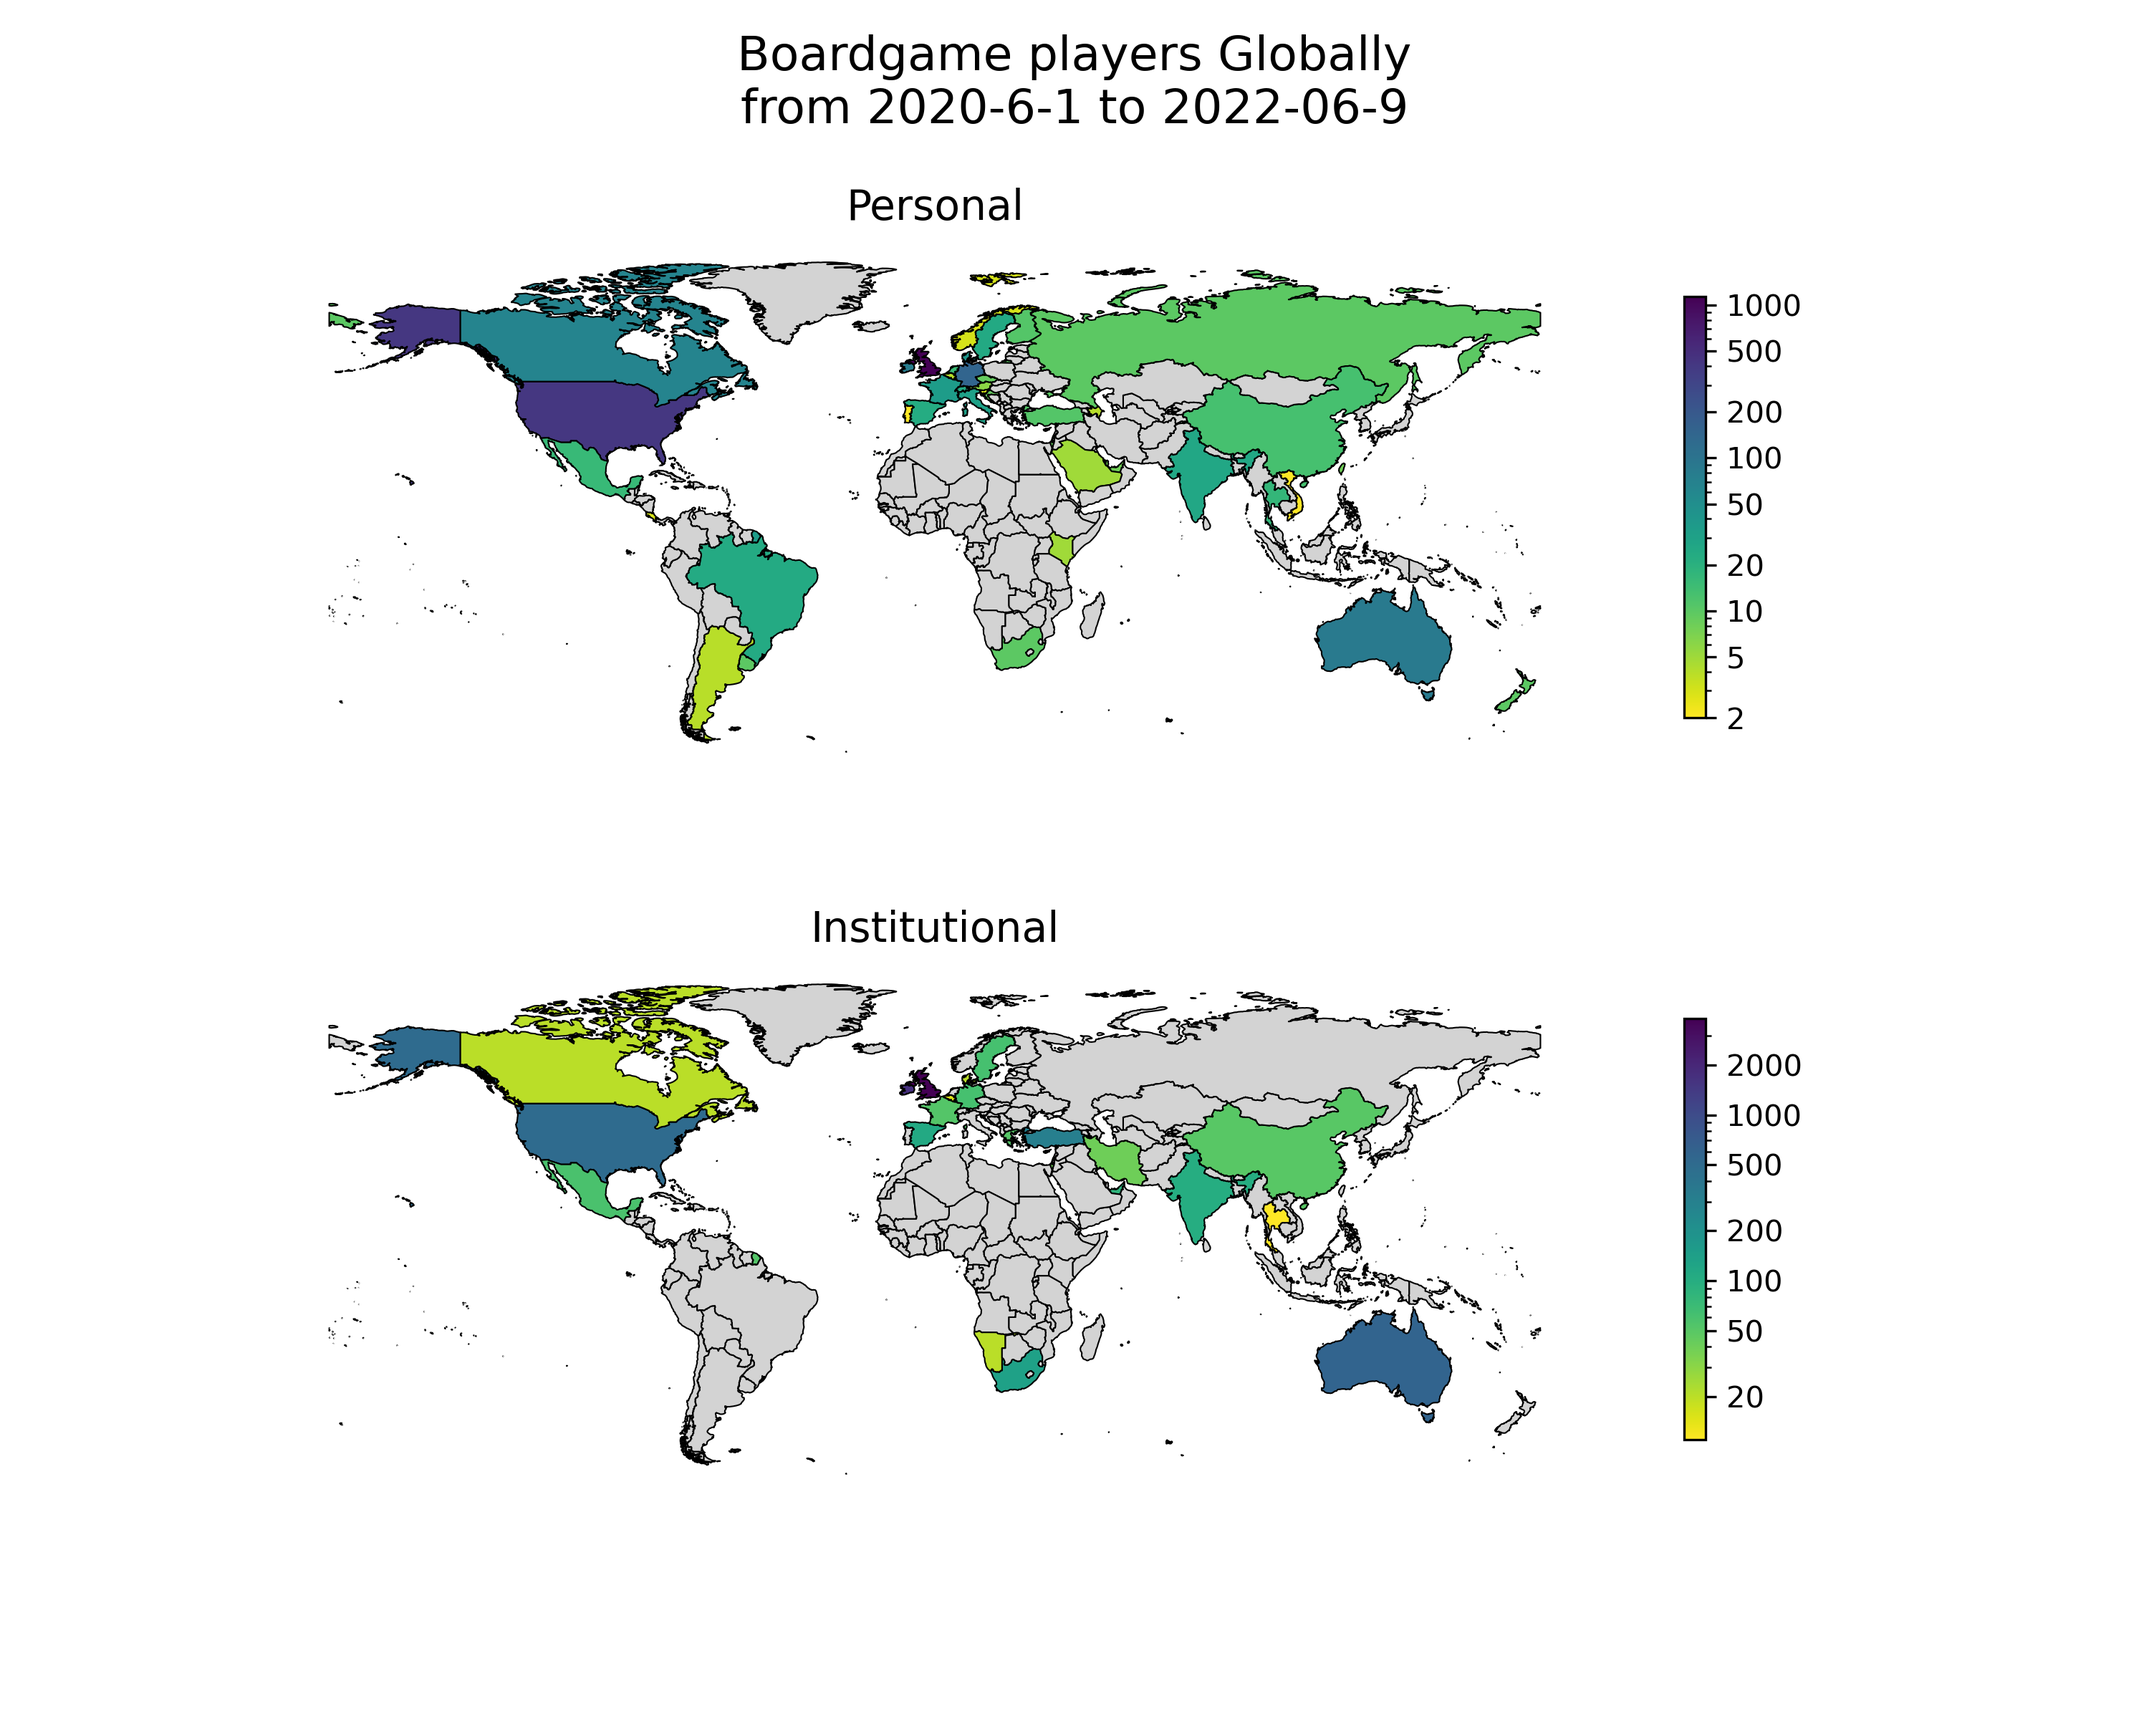
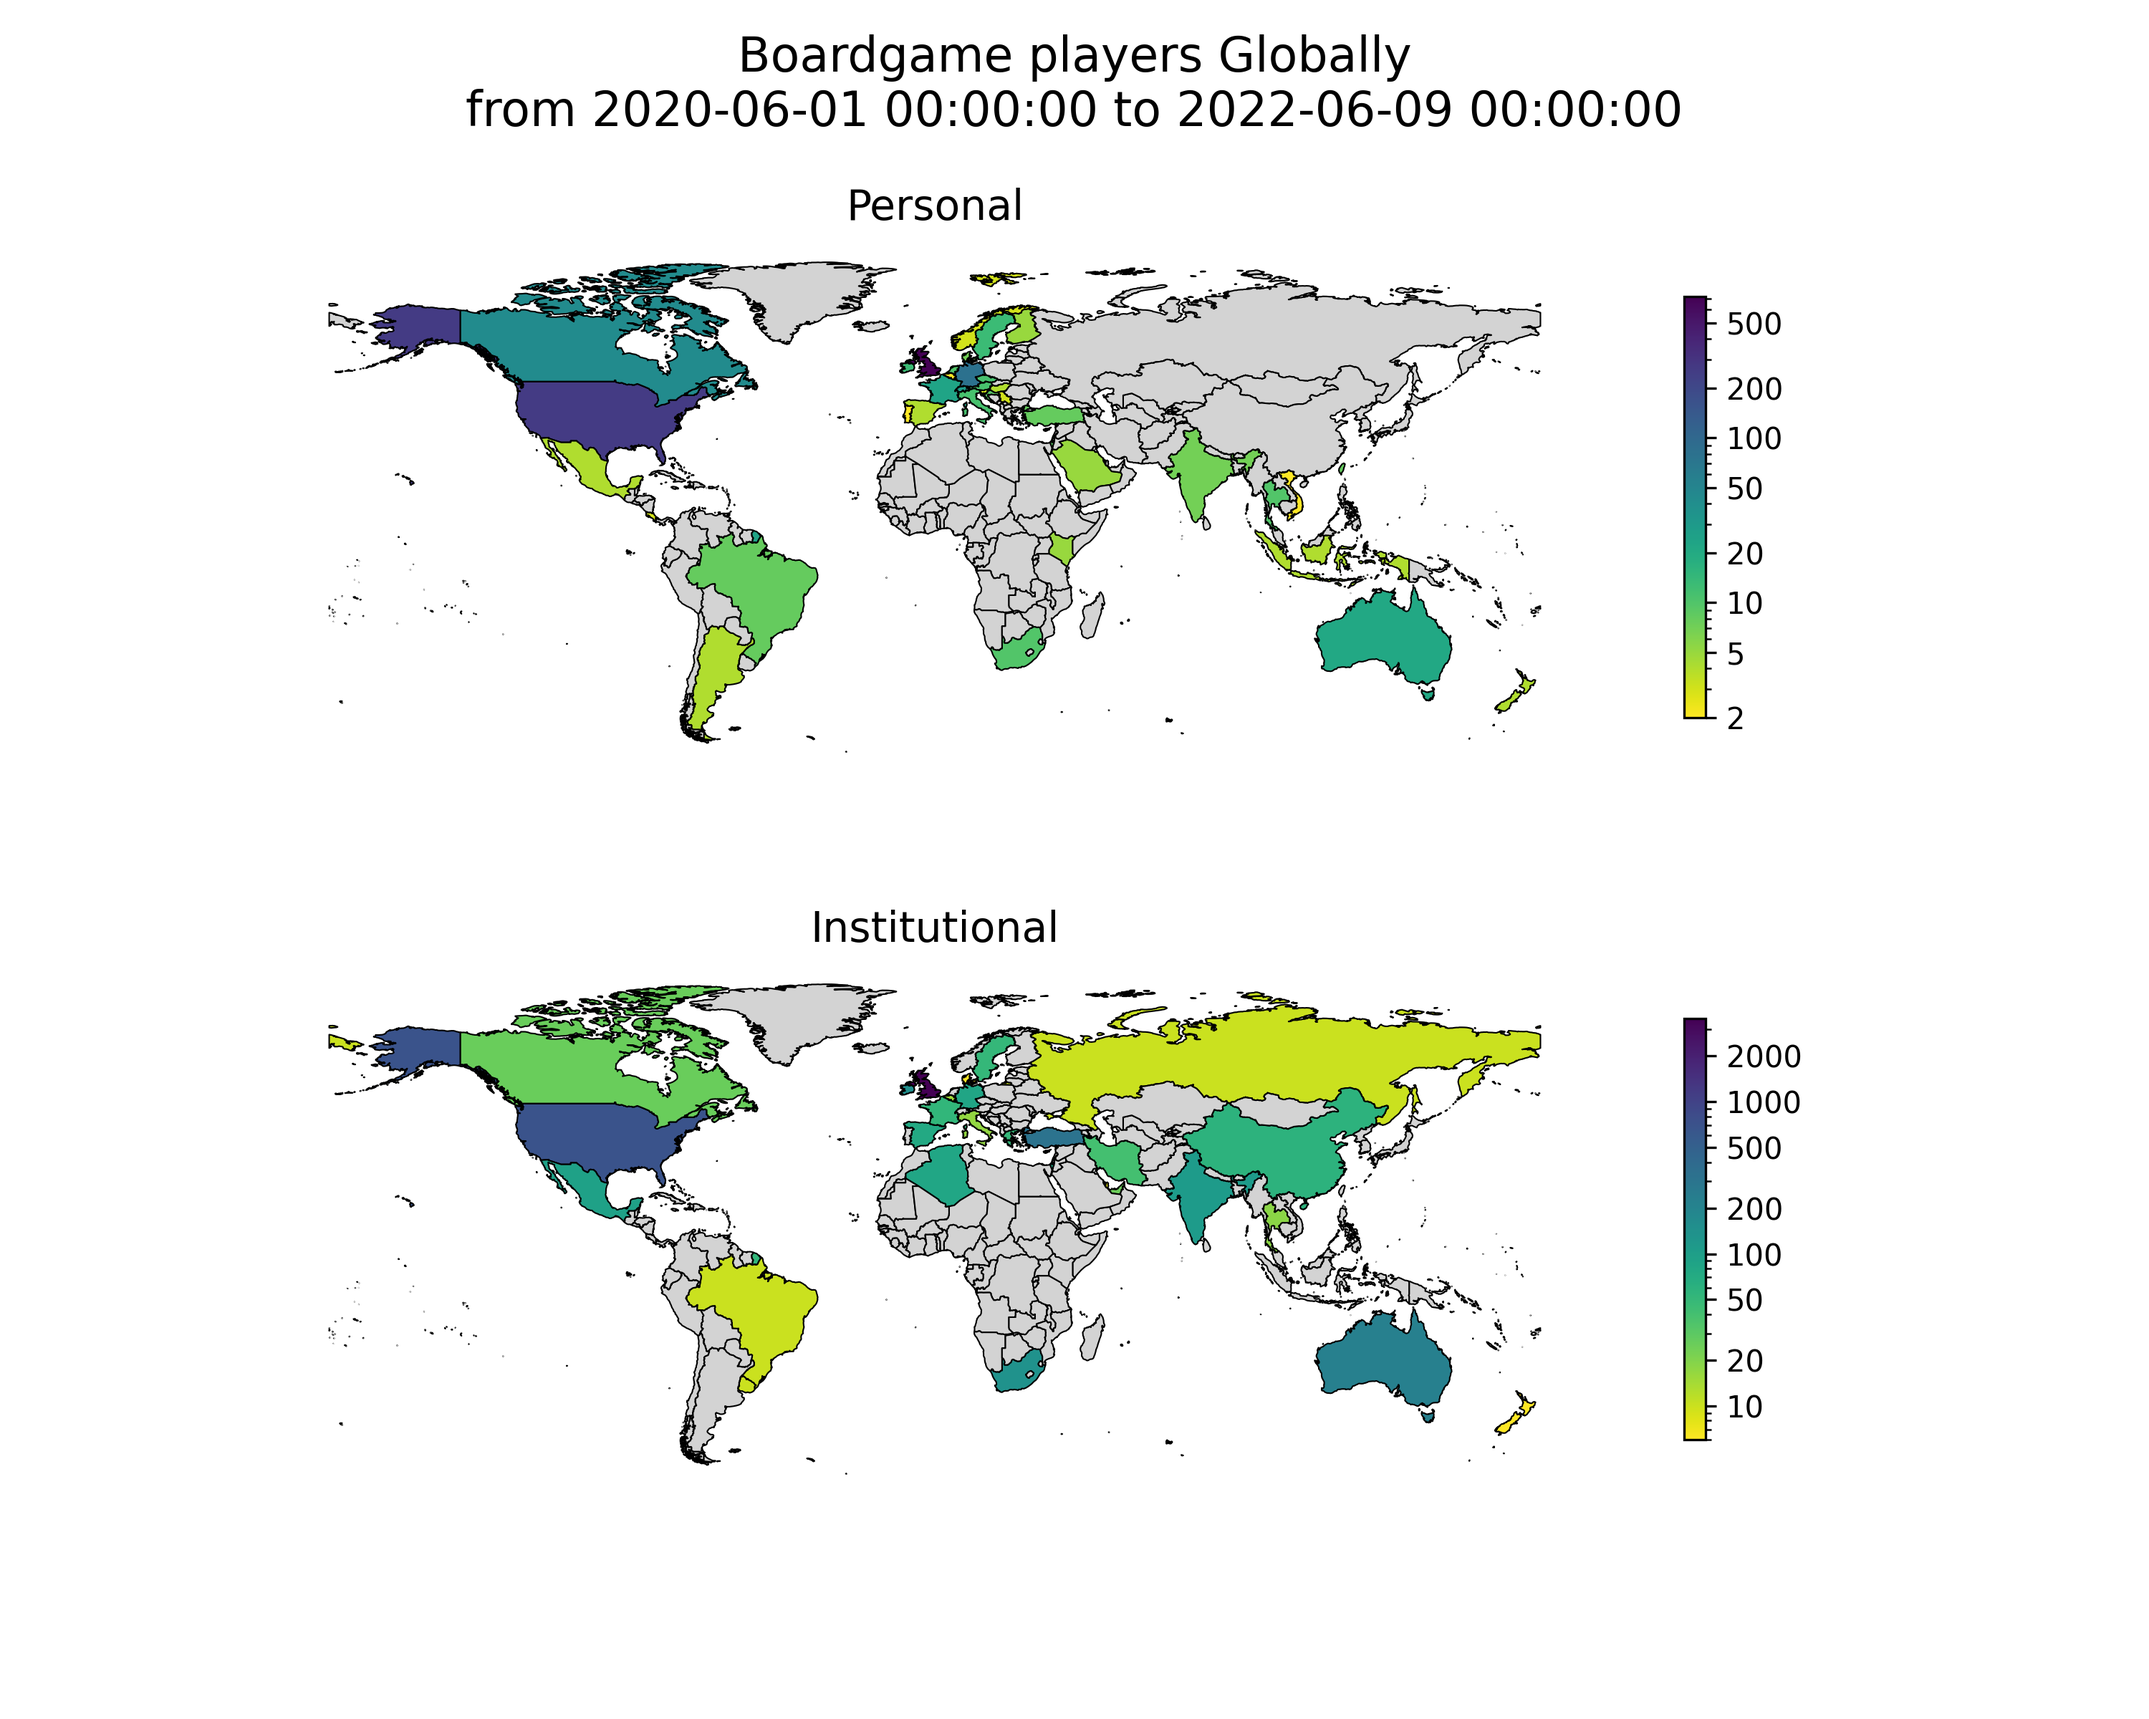
Update all the world plots to split institute at 6
And fix up bugs related to new verisions of pandas and numpy

diff --git a/UKPlayers.py b/UKPlayers.py
@@ -22,20 +22,22 @@ del df['Q1']
 del df['Q4']
 del df['Q5']
 del df['Q6']
-df['Started'] = pd.to_datetime(df['Started'])
+df['Started'] = pd.to_datetime(df['Started'], dayfirst=True)
 df = df.set_index(['Started'])
-df['Q3.1'] = df['Q3.1. 0 - 7 years old'].replace('-','0').replace(np.NaN,0).astype(int)
-df['Q3.2'] = df['Q3.2. 8 - 14 years old'].replace('-','0').replace(np.NaN,0).astype(int)
-df['Q3.3'] = df['Q3.3. 15 - 19 years old'].replace('-','0').replace(np.NaN,0).astype(int)
-df['Q3.4'] = df['Q3.4. 20 +'].replace('-','0').replace(np.NaN,0).astype(int)
+df['Q3.1'] = df['Q3.1. 0 - 7 years old'].replace('-','0').replace(np.nan,0).astype(int)
+df['Q3.2'] = df['Q3.2. 8 - 14 years old'].replace('-','0').replace(np.nan,0).astype(int)
+df['Q3.3'] = df['Q3.3. 15 - 19 years old'].replace('-','0').replace(np.nan,0).astype(int)
+df['Q3.4'] = df['Q3.4. 20 +'].replace('-','0').replace(np.nan,0).astype(int)
 df['total'] = df['Q3.1']+df['Q3.2']+df['Q3.3']+df['Q3.4']
 df = df[df['UK'] == 1.0]
 df['name'] = df['Q2'].str.split('[0-9]').str[0].str.upper()
 
 clean_df = df.copy()
 
-start_date = '2020-6-1'
-end_date = '2022-6-9'
+clean_df = clean_df.sort_index()
+
+start_date = pd.to_datetime('2020-6-1')
+end_date = pd.to_datetime('2022-6-9')
 # set the range, start date set before to pick up any early ones where plotting is problematic
 df = clean_df.loc[start_date:end_date]
 

diff --git a/WorldPlayers.py b/WorldPlayers.py
@@ -23,20 +23,22 @@ del df['Q1']
 del df['Q4']
 del df['Q5']
 del df['Q6']
-df['Started'] = pd.to_datetime(df['Started'])
+df['Started'] = pd.to_datetime(df['Started'], dayfirst=True)
 df = df.set_index(['Started'])
-df['Q3.1'] = df['Q3.1. 0 - 7 years old'].replace('-','0').replace(np.NaN,0).astype(int)
-df['Q3.2'] = df['Q3.2. 8 - 14 years old'].replace('-','0').replace(np.NaN,0).astype(int)
-df['Q3.3'] = df['Q3.3. 15 - 19 years old'].replace('-','0').replace(np.NaN,0).astype(int)
-df['Q3.4'] = df['Q3.4. 20 +'].replace('-','0').replace(np.NaN,0).astype(int)
+df['Q3.1'] = df['Q3.1. 0 - 7 years old'].replace('-','0').replace(np.nan,0).astype(int)
+df['Q3.2'] = df['Q3.2. 8 - 14 years old'].replace('-','0').replace(np.nan,0).astype(int)
+df['Q3.3'] = df['Q3.3. 15 - 19 years old'].replace('-','0').replace(np.nan,0).astype(int)
+df['Q3.4'] = df['Q3.4. 20 +'].replace('-','0').replace(np.nan,0).astype(int)
 df['total'] = df['Q3.1']+df['Q3.2']+df['Q3.3']+df['Q3.4']
 df['Q2'][df['UK']==1.0] = 'United Kingdom'
 df['NAME'] = df['Q2']
 
 clean_df = df.copy()
 
-start_date = '2020-6-1'
-end_date = '2022-06-9'
+clean_df = clean_df.sort_index()
+
+start_date = pd.to_datetime('2020-6-1')
+end_date = pd.to_datetime('2022-06-9')
 # set the range, start date set before to pick up any early ones where plotting is problematic
 df = clean_df.loc[start_date:end_date]
 
